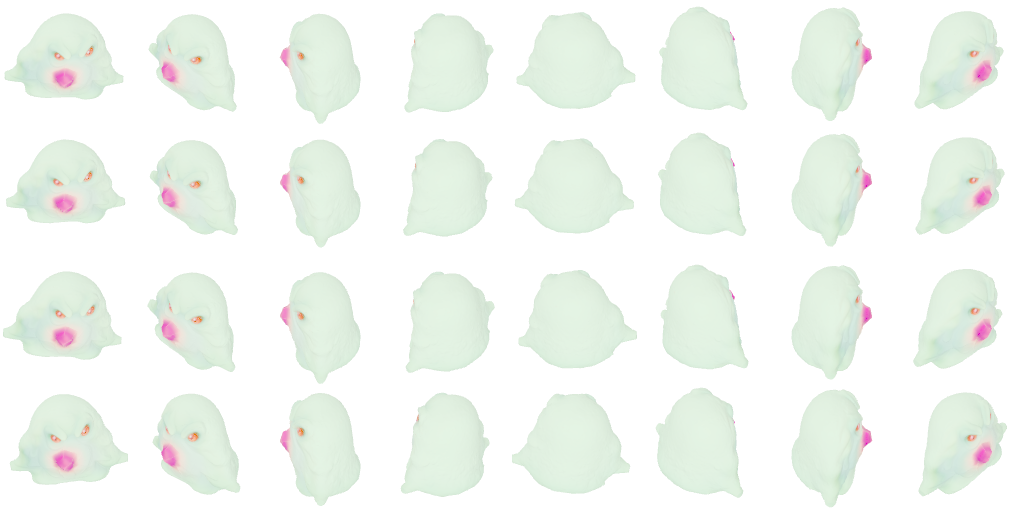
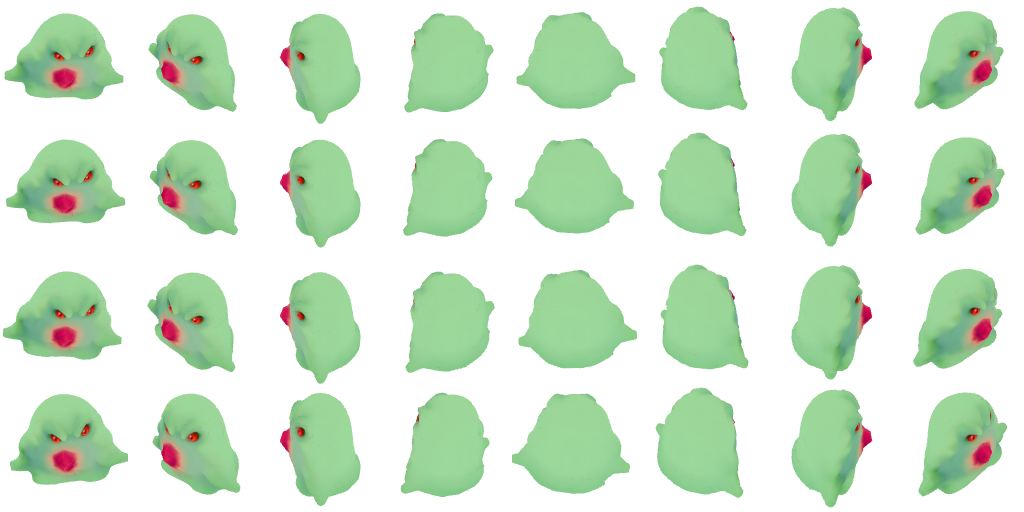
fix: creature 3D spritesheet rendering darkness
Replace MeshLambertMaterial with MeshBasicMaterial — Three.js r155+
switched to physically-based lighting, making old light intensities
far too dim. MeshBasicMaterial shows textures at full brightness
since Hunyuan 3D textures already have baked-in shading.

- Remove lighting setup (no longer needed)
- Remove gamma correction hack (no longer needed)
- Fix MODELS_DIR/OUTPUT_DIR paths to scripts/assets/
- Re-render creature_slime spritesheet with fix
- Also includes pre-existing generate-ai-assets.ts tile additions

diff --git a/scripts/render-creature-sprites.ts b/scripts/render-creature-sprites.ts
@@ -40,8 +40,8 @@ import { chromium } from "playwright";
 import sharp from "sharp";
 
 const ROOT = join(dirname(fileURLToPath(import.meta.url)), "..");
-const MODELS_DIR = join(ROOT, "client", "public", "assets", "ai", "models");
-const OUTPUT_DIR = join(ROOT, "client", "public", "assets", "ai", "creatures3d");
+const MODELS_DIR = join(ROOT, "scripts", "assets", "models");
+const OUTPUT_DIR = join(ROOT, "scripts", "assets", "creatures3d");
 
 const THREE_PATH = join(ROOT, "node_modules", "three", "build", "three.module.js");
 const THREE_CORE_PATH = join(ROOT, "node_modules", "three", "build", "three.core.js");
@@ -137,17 +137,10 @@ const RENDER_FN = async (objUrl: string, mtlUrl: string | null, textureUrl: stri
   cam.position.set(0, Math.sin(elev) * 2, Math.cos(elev) * 2);
   cam.lookAt(0, 0, 0);
 
-  // Lighting — bright, even illumination so colors pop
-  scene.add(new THREE.AmbientLight(0xffffff, 1.0));
-  const keyLight = new THREE.DirectionalLight(0xffffff, 1.5);
-  keyLight.position.copy(cam.position);
-  scene.add(keyLight);
-  const fillLight = new THREE.DirectionalLight(0xffffff, 0.8);
-  fillLight.position.set(-1, 0.5, -1);
-  scene.add(fillLight);
-  const rimLight = new THREE.DirectionalLight(0xffffff, 0.5);
-  rimLight.position.set(0, -0.3, 1);
-  scene.add(rimLight);
+  // MeshBasicMaterial ignores lighting — the Hunyuan 3D textures already have
+  // baked-in shading/highlights, so no dynamic lights are needed.
+  // (Previous MeshLambertMaterial + lights produced dark output on Three.js r155+
+  //  due to the physically-based lighting change.)
 
   // Load MTL materials first (if available), then OBJ
   const objLoader = new OBJLoader();
@@ -174,12 +167,13 @@ const RENDER_FN = async (objUrl: string, mtlUrl: string | null, textureUrl: stri
   });
   scene.add(model);
 
-  // Apply texture to all meshes using MeshLambertMaterial — gives directional
-  // shading (so faces/features are visible) without PBR darkening from MeshStandardMaterial.
+  // Apply texture to all meshes using MeshBasicMaterial — shows the texture at
+  // full brightness with no lighting darkening. The Hunyuan 3D textures already
+  // have baked-in directional shading, so 3D face features remain visible.
   if (texture) {
     model.traverse((child: any) => {
       if (child.isMesh) {
-        child.material = new THREE.MeshLambertMaterial({ map: texture });
+        child.material = new THREE.MeshBasicMaterial({ map: texture });
       }
     });
   }
@@ -222,11 +216,6 @@ const RENDER_FN = async (objUrl: string, mtlUrl: string | null, textureUrl: stri
   sheetCanvas.height = 128 * 4;
   const sheetCtx = sheetCanvas.getContext("2d")!;
 
-  // Compute average brightness of the spritesheet to auto-correct dark textures
-  const sampleCanvas = document.createElement("canvas");
-  sampleCanvas.width = 32; sampleCanvas.height = 32;
-  const sampleCtx = sampleCanvas.getContext("2d")!;
-
   for (let anim = 0; anim < 4; anim++) {
     for (let dir = 0; dir < 8; dir++) {
       model.rotation.y = dirRotations[dir];
@@ -237,36 +226,6 @@ const RENDER_FN = async (objUrl: string, mtlUrl: string | null, textureUrl: stri
       renderer.render(scene, cam);
       sheetCtx.drawImage(renderer.domElement, dir * 128, anim * 128);
     }
-  }
-
-  // Auto-brighten: sample center frame, compute mean brightness, apply gamma correction if dark
-  sampleCtx.drawImage(sheetCanvas, 0, 0, 128, 128, 0, 0, 32, 32);
-  const sampleData = sampleCtx.getImageData(0, 0, 32, 32).data;
-  let sum = 0, count = 0;
-  for (let i = 0; i < sampleData.length; i += 4) {
-    if (sampleData[i + 3] > 0) {
-      sum += (sampleData[i] + sampleData[i + 1] + sampleData[i + 2]) / 3;
-      count++;
-    }
-  }
-  const avgBrightness = count > 0 ? sum / count : 128;
-  // Target brightness ~180/255; apply gamma correction if darker than 150
-  if (avgBrightness < 150 && count > 0) {
-    // We want: current^invGamma = target → invGamma = log(target)/log(current)
-    const target = 180 / 255;
-    const current = Math.max(avgBrightness / 255, 0.01);
-    const invGamma = Math.max(Math.log(target) / Math.log(current), 0.05);
-    const clampedInvGamma = Math.min(invGamma, 0.2); // cap at gamma=5 (invGamma=0.2)
-    const imgData = sheetCtx.getImageData(0, 0, sheetCanvas.width, sheetCanvas.height);
-    const d = imgData.data;
-    for (let i = 0; i < d.length; i += 4) {
-      if (d[i + 3] > 0) {
-        d[i]   = 255 * Math.pow(d[i]   / 255, clampedInvGamma);
-        d[i+1] = 255 * Math.pow(d[i+1] / 255, clampedInvGamma);
-        d[i+2] = 255 * Math.pow(d[i+2] / 255, clampedInvGamma);
-      }
-    }
-    sheetCtx.putImageData(imgData, 0, 0);
   }
 
   return sheetCanvas.toDataURL("image/png");

diff --git a/scripts/generate-ai-assets.ts b/scripts/generate-ai-assets.ts
@@ -170,28 +170,29 @@ const ASSETS: AssetDef[] = [
   tile("wall_1", "gray concrete wall, smooth, top-down", 1018),
   tile("wall_2", "stone wall, cobblestone, top-down", 1019),
   tile("wall_3", "white plaster wall, cracked, top-down", 1020),
-  tile("water_0", "clear blue water, gentle ripples, top-down", 1021),
-  tile("water_1", "blue water, moderate waves, top-down", 1022),
-  tile("water_2", "blue water, choppier waves, top-down", 1023),
-  tile("lava_0", "glowing orange molten lava, cracked crust, top-down", 1024),
-  tile("lava_1", "molten lava, dark crust with bright veins, top-down", 1025),
-  tile("lava_2", "cooling lava, dark with red glow, top-down", 1026),
-  tile("lava_3", "bubbling lava, bright orange, top-down", 1027),
-  tile("acid_0", "toxic green acid pool, bubbling, top-down", 1028),
-  tile("acid_1", "acidic green liquid, corrosive, top-down", 1029),
-  tile("acid_2", "thick green acid, viscous, top-down", 1030),
-  tile("acid_3", "acid with yellow crust, top-down", 1031),
-  tile("void_0", "dark void tear, purple-black energy, top-down", 1032),
-  tile("void_1", "void rift, dark purple swirl, top-down", 1033),
-  tile("void_2", "void crack, black with purple edges, top-down", 1034),
-  tile("void_3", "void portal, deep purple, top-down", 1035),
-  tile("ruin_0", "crumbling gray stone, ancient ruin, top-down", 1036),
-  tile("ruin_1", "mossy ruined stone, cracked, top-down", 1037),
-  tile("ruin_2", "broken stone tiles, ancient, top-down", 1038),
-  tile("ruin_3", "weathered stone blocks, fallen, top-down", 1039),
-  tile("castle_0", "cut gray stone block, castle wall, top-down", 1040),
-  tile("castle_1", "polished stone block, fortress, top-down", 1041),
-  tile("castle_2", "stone block with mortar, castle, top-down", 1042),
+  tile("wall_4", "mesoamerican stone wall, carved volcanic basalt blocks with stepped fret geometric patterns, greca de escalones, warm earthy brown and terracotta tones, subtle glyph carvings, top-down, tileable", 1021),
+  tile("water_0", "clear blue water, gentle ripples, top-down", 1022),
+  tile("water_1", "blue water, moderate waves, top-down", 1023),
+  tile("water_2", "blue water, choppier waves, top-down", 1024),
+  tile("lava_0", "glowing orange molten lava, cracked crust, top-down", 1025),
+  tile("lava_1", "molten lava, dark crust with bright veins, top-down", 1026),
+  tile("lava_2", "cooling lava, dark with red glow, top-down", 1027),
+  tile("lava_3", "bubbling lava, bright orange, top-down", 1028),
+  tile("acid_0", "toxic green acid pool, bubbling, top-down", 1029),
+  tile("acid_1", "acidic green liquid, corrosive, top-down", 1030),
+  tile("acid_2", "thick green acid, viscous, top-down", 1031),
+  tile("acid_3", "acid with yellow crust, top-down", 1032),
+  tile("void_0", "dark void tear, purple-black energy, top-down", 1033),
+  tile("void_1", "void rift, dark purple swirl, top-down", 1034),
+  tile("void_2", "void crack, black with purple edges, top-down", 1035),
+  tile("void_3", "void portal, deep purple, top-down", 1036),
+  tile("ruin_0", "crumbling gray stone, ancient ruin, top-down", 1037),
+  tile("ruin_1", "mossy ruined stone, cracked, top-down", 1038),
+  tile("ruin_2", "broken stone tiles, ancient, top-down", 1039),
+  tile("ruin_3", "weathered stone blocks, fallen, top-down", 1040),
+  tile("castle_0", "cut gray stone block, castle wall, top-down", 1041),
+  tile("castle_1", "polished stone block, fortress, top-down", 1042),
+  tile("castle_2", "stone block with mortar, castle, top-down", 1043),
   tile("castle_3", "weathered stone block, ancient fortress, top-down", 1043),
   tile("fairway_0", "smooth manicured grass, golf fairway, top-down", 1044),
   tile("fairway_1", "golf fairway grass, short and even, top-down", 1045),
